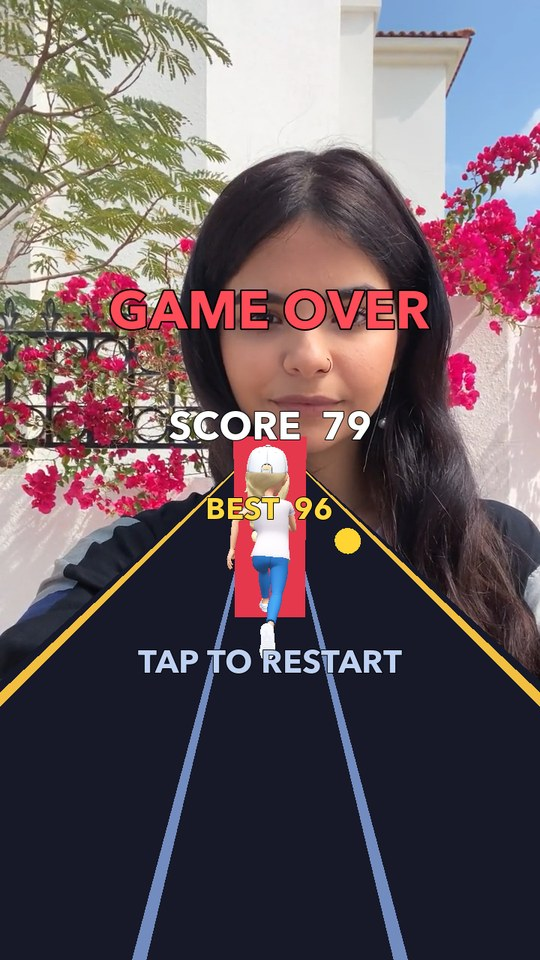
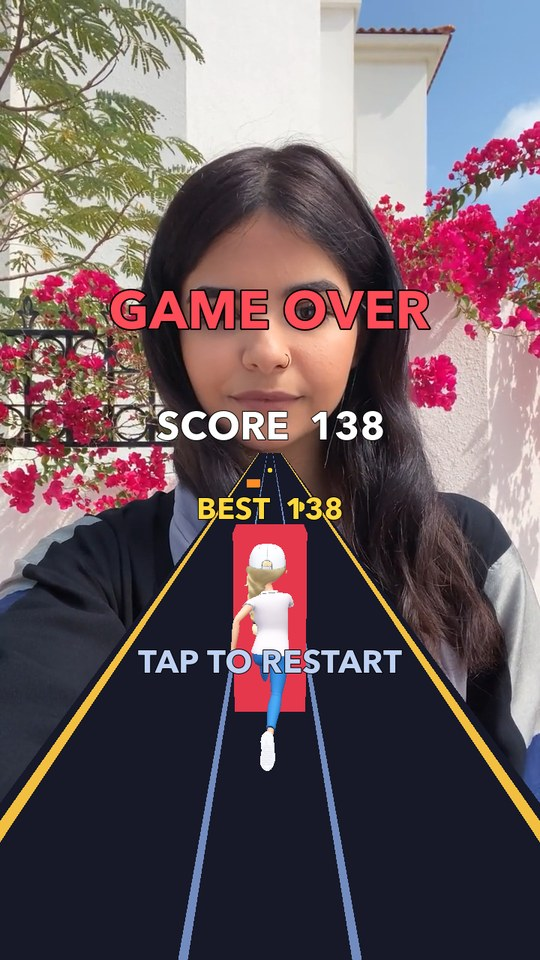
Недоторканність і мигання по 1.5 с; камера піднята на Y=15
Мигання і недоторканність тепер рівні: блимання і є візуальним сигналом
недоторканності, тож розбіжність між ними обманювала б гравця. У
GameConfig обидва числа стоять поруч із поміткою тримати їх рівними.

Камеру підняв Олег вручну (Y: 6 -> 15) — горизонт пішов за кадр, доріжка
читається як повноцінна траса, і перешкоди видно раніше. Скріншоти
перезняті під нове кадрування.

diff --git a/Assets/Scripts/GameConfig.ts b/Assets/Scripts/GameConfig.ts
@@ -86,10 +86,14 @@ export const CONFIG = {
 
     // --- Життя ---
     maxLives: 3,
-    /** Недоторканність після удару, с — щоб одна перешкода не зняла два життя. */
-    hitInvulnerability: 0.9,
-    /** Скільки секунд персонаж миготить після зіткнення. */
-    hitFlashDuration: 2,
+    /**
+     * Недоторканність після удару, с — щоб одна перешкода не зняла два життя.
+     * Тримати рівною hitFlashDuration: мигання і є візуальним сигналом
+     * недоторканності, тож розбіжність між ними обманює гравця.
+     */
+    hitInvulnerability: 1.5,
+    /** Скільки секунд персонаж миготить після зіткнення. Див. hitInvulnerability. */
+    hitFlashDuration: 1.5,
     /** Пів-період миготіння, с: менше значення — частіше блимає. */
     hitFlashInterval: 0.1,
 

diff --git a/README.md b/README.md
@@ -18,7 +18,7 @@ Bitmoji-персонаж біжить по трьох смугах, оминає
 |---|---|
 | Bitmoji з анімаціями | біг + strafe-нахили при зміні смуги |
 | Перешкоди, які можна оббігати й перестрибувати | три типи: стіна, низька, підвісна (+ підкат) |
-| Зіткнення віднімає життя | з вікном недоторканності 0.9 с; персонаж миготить 2 с |
+| Зіткнення віднімає життя | 1.5 с недоторканності, і рівно стільки ж триває мигання |
 | Три колізії завершують гру | біг зупиняється, персонаж переходить у позу очікування; екран Game Over з рахунком і рекордом |
 | Спосіб керування на вибір | свайпи + тап |
 | Рестарт без виходу з лінзи | тап на екрані Game Over |
@@ -57,7 +57,7 @@ Assets/Scripts/
 Ієрархія сцени:
 
 ```
-Camera Object            перспективна камера (0, 6, 36), нахил -6°
+Camera Object            перспективна камера (0, 15, 36), нахил -6°
 Lighting                 Envmap + Directional
 Game                     [GameManager]
 ├── Player               [PlayerController]  — рухається по X (смуга) і Y (стрибок)
@@ -105,7 +105,7 @@ FPS і легко дебажиться. Тип перешкоди задає й 
 персонаж зміщується вбік. Менше конфігурації, поведінка видима прямо в коді.
 
 **Мигання після удару — не на останньому зіткненні.** Після зіткнення персонаж блимає
-2 с, перемикаючи видимість кожні 0.1 с. Але на третьому зіткненні мигання не
+1.5 с, перемикаючи видимість кожні 0.1 с. Але на третьому зіткненні мигання не
 запускається: одразу за ним іде поза очікування, і блимання поверх неї читалося б як
 збій рендеру, а не як фідбек. Розвилка природно лягла на вже наявну гілку
 `lives <= 0 ? endGame() : startHitFlash()`, тож окремої перевірки «чи це третій удар»
@@ -163,8 +163,10 @@ Mixamo-набір з туторіалу — це лише `Fast Run` і два s
 Рахунок росте з двох джерел: монетки (активна дія) і час виживання (винагорода за
 дистанцію). Друге потрібне, щоб обережна гра теж мала сенс.
 
-Після зіткнення діє 0.9 с недоторканності — широка перешкода перекриває гравця кілька
-кадрів поспіль, і без цього три життя зникали б за мить.
+Після зіткнення діє 1.5 с недоторканності — широка перешкода перекриває гравця кілька
+кадрів поспіль, і без цього три життя зникали б за мить. Мигання триває рівно стільки ж:
+воно і є візуальним сигналом недоторканності, тож розбіжність між цими двома числами
+обманювала б гравця. У `GameConfig` вони стоять поруч із поміткою тримати їх рівними.
 
 Спавнер не кладе монетку в смугу, куди щойно пішла перешкода: інакше гра карала б
 за те, що сама ж і заохочує. Побічний ефект — нерухомий гравець у центрі майже не
@@ -200,7 +202,7 @@ Bitmoji-персонаж, Mixamo-анімації (`Fast Run`, `Left Strafe`, `R
 | Свайп уліво тричі поспіль | один звук (далі край доріжки) | один |
 | Усі пʼять звуків | спрацьовують на своїх подіях | усі пʼять |
 | «Дихання» в позі очікування | коливання в межах ±0.35 см | -12.28 → -11.97 |
-| Мигання після удару | 2 с, перемикання кожні 0.1 с | 2.01 с, крок 0.10 с |
+| Мигання після удару | перемикання кожні 0.1 с | крок 0.10 с, вимір на тривалості 2 с |
 | Мигання на третьому ударі | не запускається | 2 спалахи на 3 зіткнення |
 
 Три помилки знайшлися лише запуском — не читанням коду:
